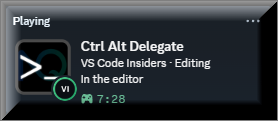
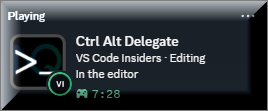
Use a tighter VS Code Insiders card screenshot in the README
The new crop is close in size to the Claude Code card, so the two line
up side by side.

Changed region(s): [[0.0, 0.0, 1.0, 0.973], [0.8657, 0.1081, 0.9552, 0.1892], [0.0597, 0.8378, 0.0896, 0.8649]]

diff --git a/README.md b/README.md
@@ -19,7 +19,7 @@ that always shows what matters right now.
 [**Download**](../../releases/latest) · [Quick start](#quick-start) · [Privacy](#privacy) · [FAQ](#faq)
 
 <img src="docs/screenshots/card-claude-code.png" alt="Discord card: Ctrl Alt Delegate, Claude Code · Ready for a prompt, Project Ctrl Alt Delegate, with a CC badge" width="270">
-<img src="docs/screenshots/card-vscode-insiders.png" alt="Discord card: Ctrl Alt Delegate, VS Code Insiders · Editing, In the editor, with a VI badge" width="278">
+<img src="docs/screenshots/card-vscode-insiders.png" alt="Discord card: Ctrl Alt Delegate, VS Code Insiders · Editing, In the editor, with a VI badge" width="268">
 
 </div>
 
